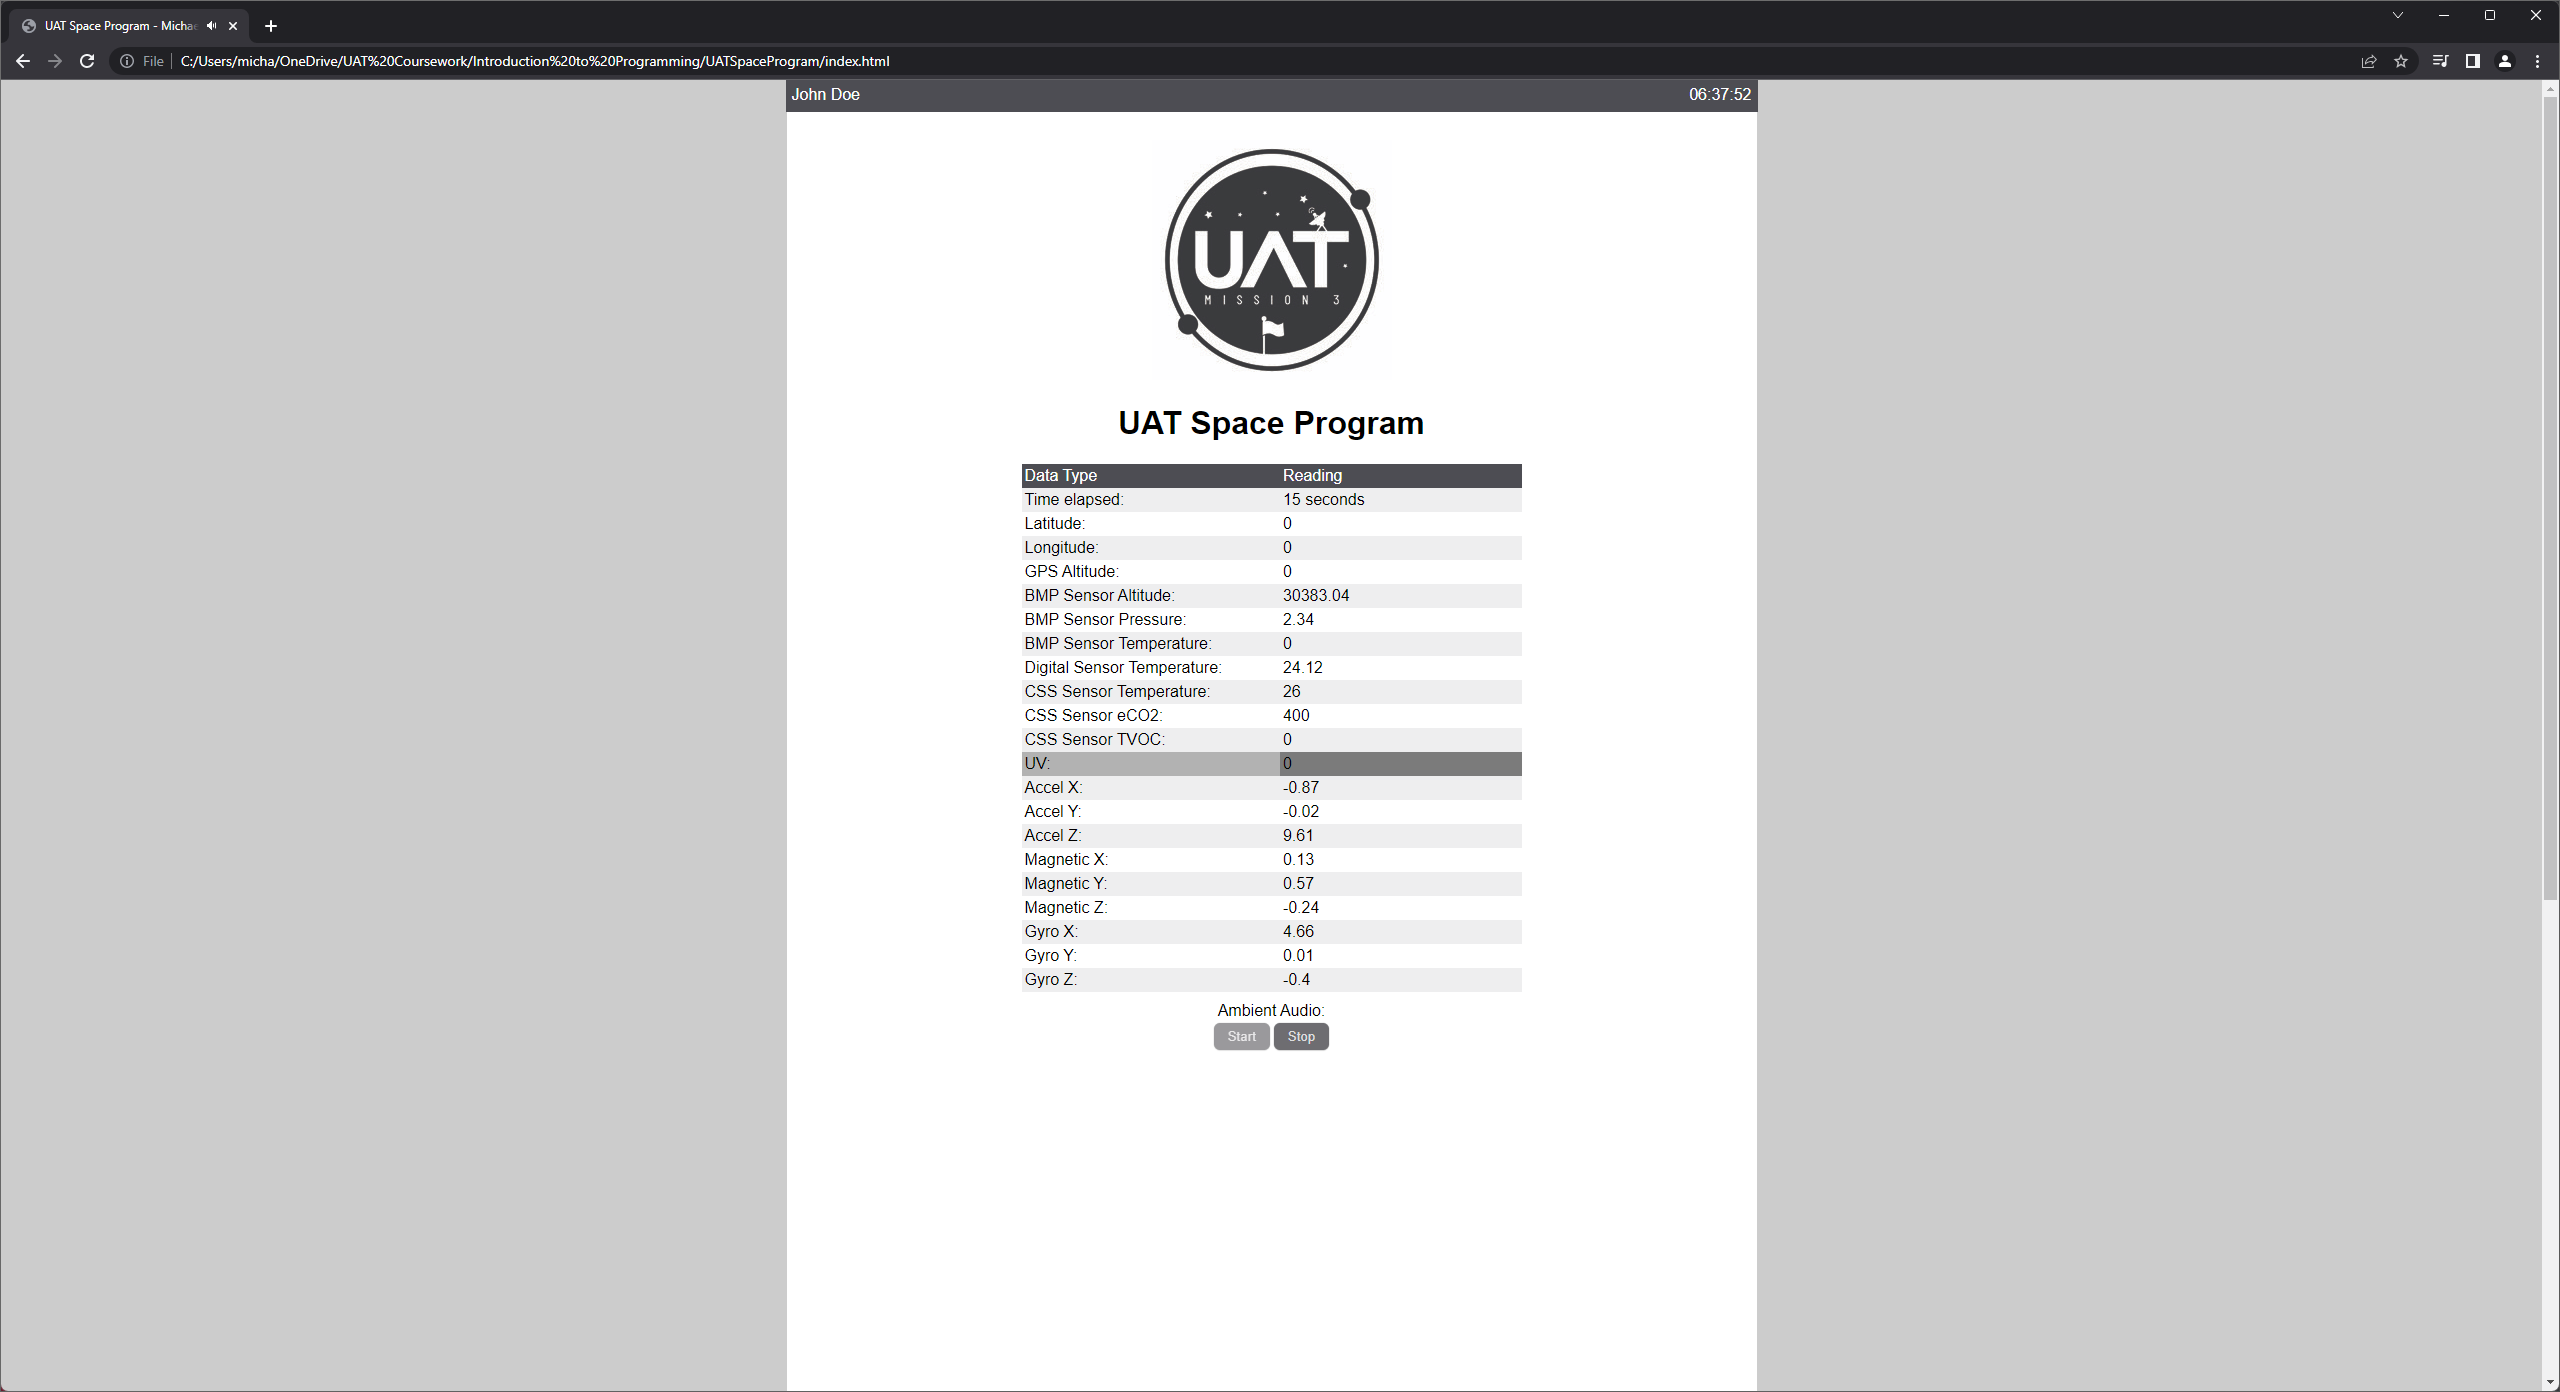
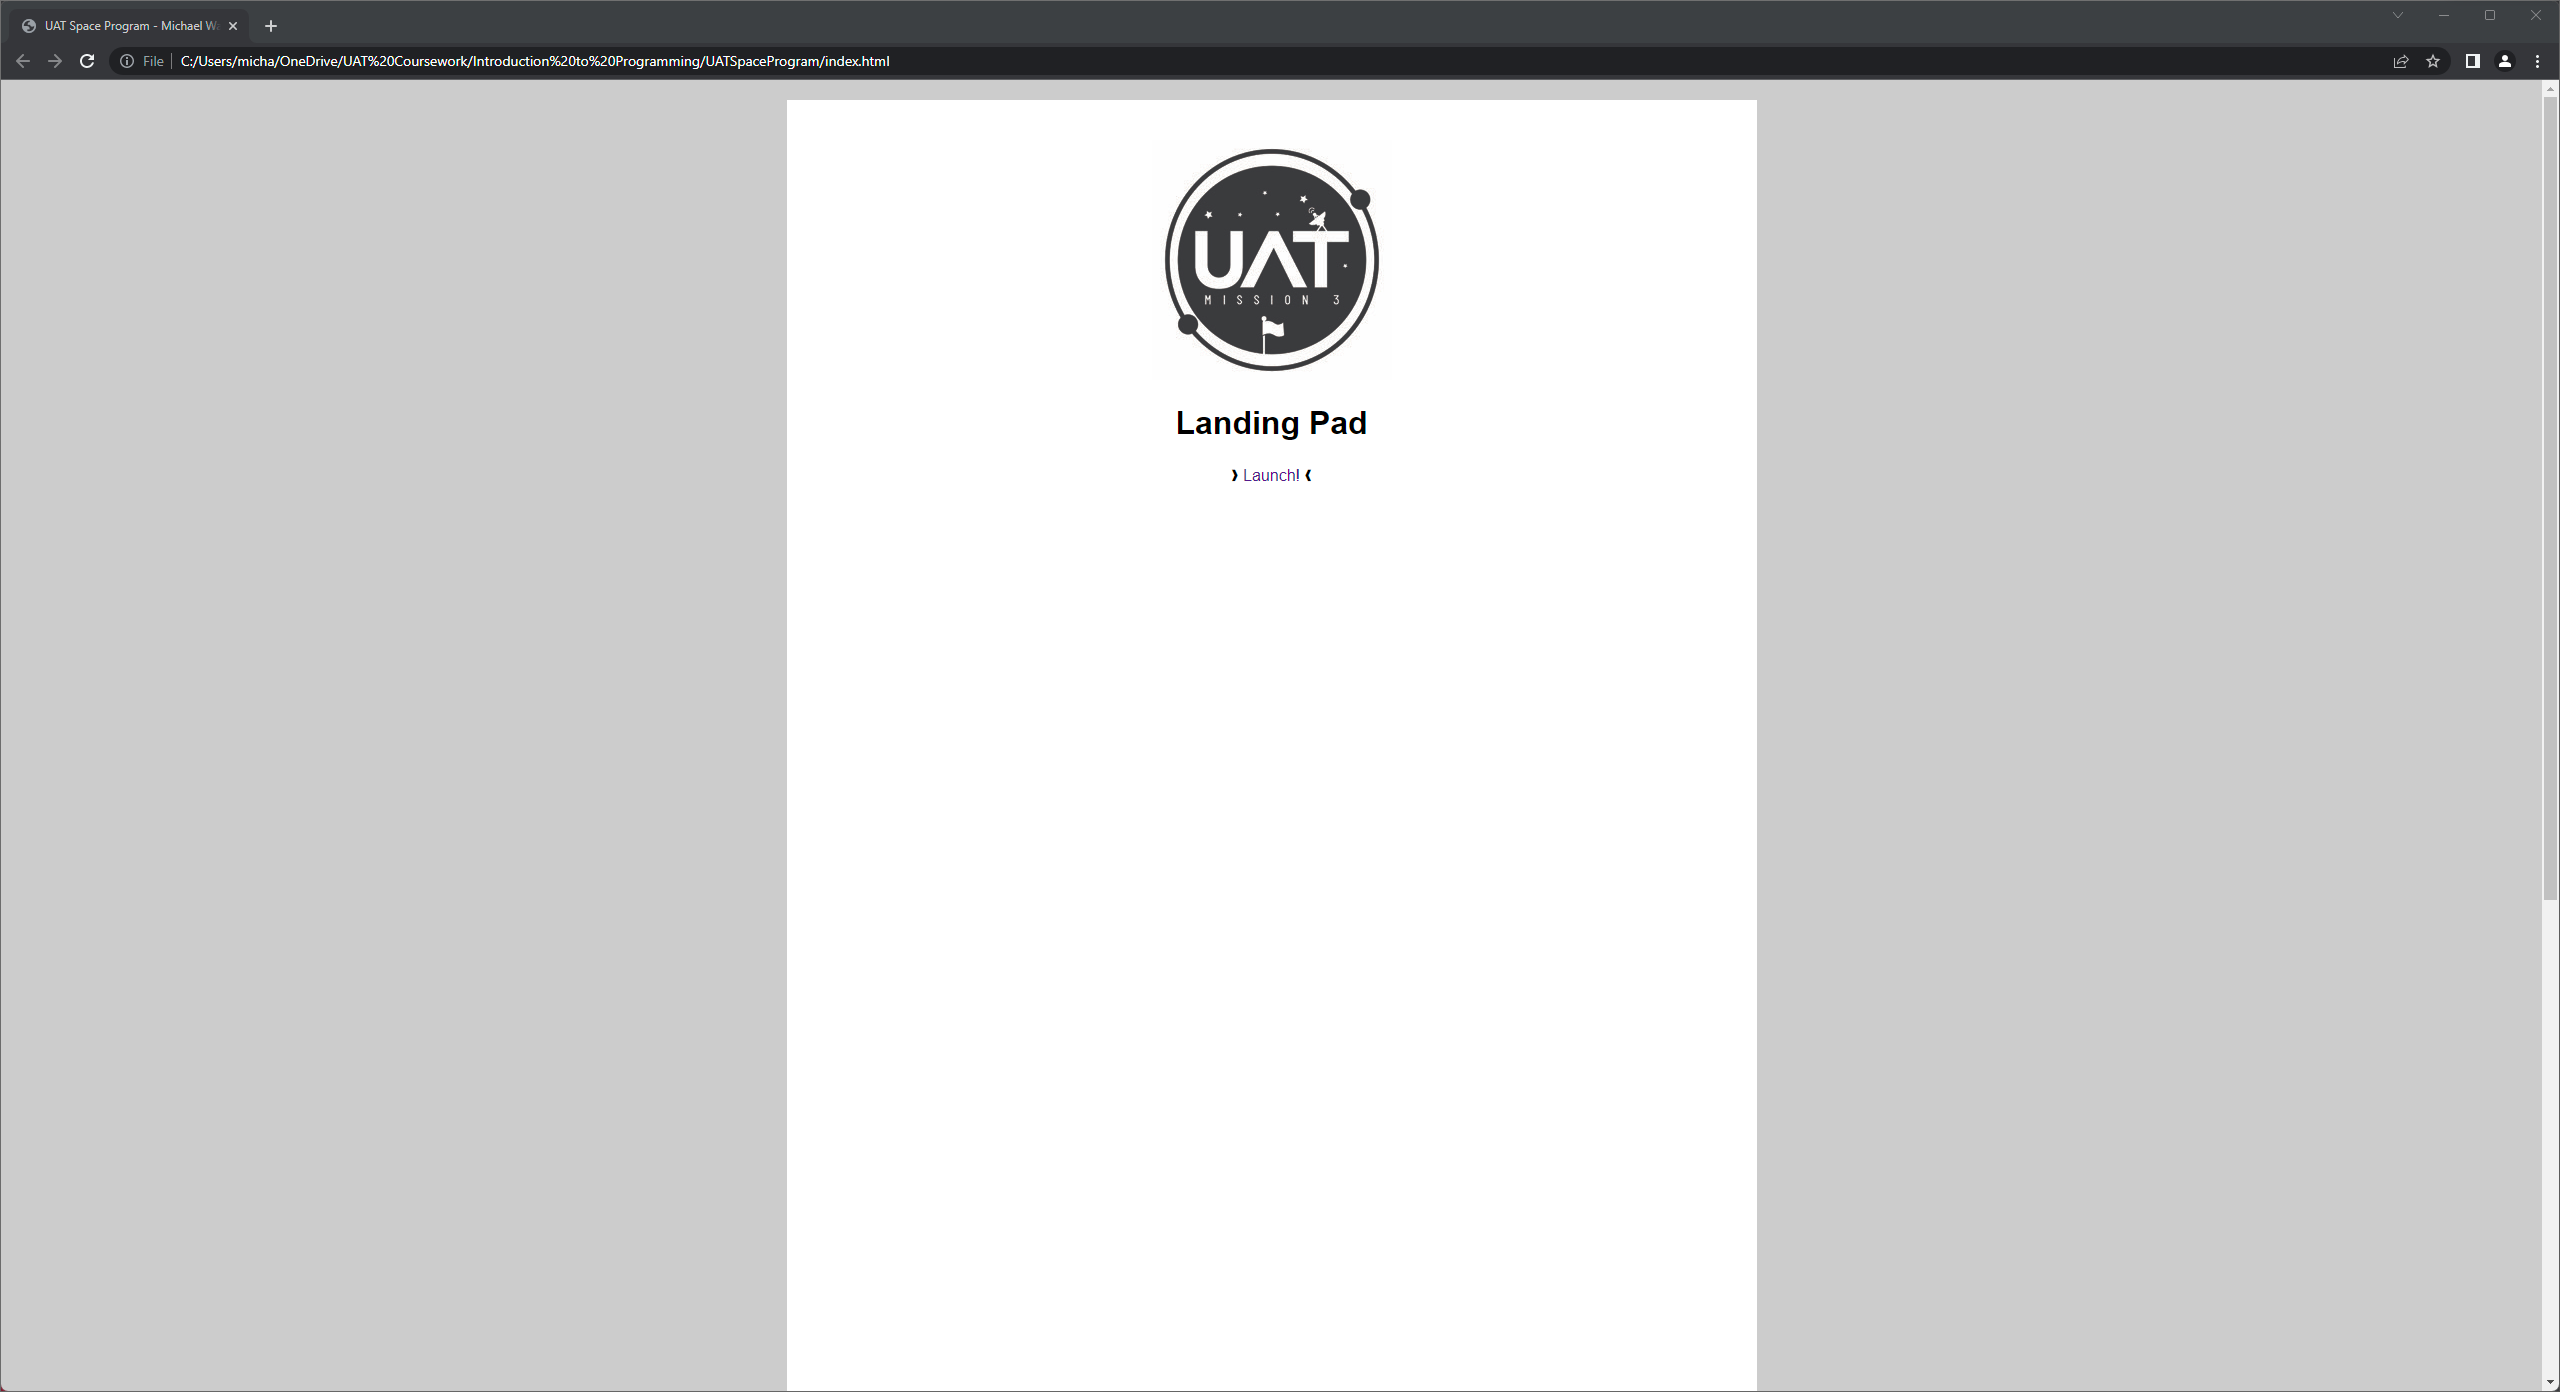
Final Assignment

diff --git a/pad.html b/pad.html
@@ -1,0 +1,137 @@
+<!DOCTYPE html>
+
+<!-- 
+    Michael Walker
+    Final Project: Website with Navigation and Mock Data
+-->
+
+<HTML>
+    <HEAD>
+        <meta charset="UTF-8">
+        <meta name="viewport" content="width=device-width, initial-scale=1.0">
+        <meta http-equiv="X-UA-Compatible" content="ie=edge">
+
+        <!-- Sets the title at top of window -->
+        <title>UAT Space Program - Michael Walker</title>
+        <link rel="stylesheet" href="style.css" type="text/css"/>
+    </HEAD>
+    <BODY>
+        <!-- Header container displays employee name and current time -->
+        <div class="header-cont">
+            <div class="header">
+                <div id="name" class="column"></div><div id="localTime" class="column"></div>
+            </div>
+        </div>
+
+        <div class="content">
+            <!-- Image source is in same folder as index.html -->
+            <img src="UATspaceLogo-2.jpg" alt="UAT Space Mission logo">
+
+            <!-- h1 tag for title of program -->
+            <h1>UAT Space Program</h1>
+
+            <table>
+                <tr class="headline">
+                    <td class="tableHeadline">Data Type</td>
+                    <td class="tableHeadline">Reading</td>
+                </tr>
+                <tr class="rowHighlight">
+                    <td>Time elapsed:</td>
+                    <td class="data">15 seconds</td>
+                </tr>
+                <tr class="rowLowlight">
+                    <td>Latitude:</td>
+                    <td class="data">0</td>
+                </tr>
+                <tr class="rowHighlight">
+                    <td>Longitude:</td>
+                    <td class="data">0</td>
+                </tr>
+                <tr class="rowLowlight">
+                    <td>GPS Altitude:</td>
+                    <td class="data">0</td>
+                </tr>
+                <tr class="rowHighlight">
+                    <td>BMP Sensor Altitude:</td>
+                    <td class="data">30383.04</td>
+                </tr>
+                <tr class="rowLowlight">
+                    <td>BMP Sensor Pressure:</td>
+                    <td class="data">2.34</td>
+                </tr>
+                <tr class="rowHighlight">
+                    <td>BMP Sensor Temperature:</td>
+                    <td class="data">0</td>
+                </tr>
+                <tr class="rowLowlight">
+                    <td>Digital Sensor Temperature:</td>
+                    <td class="data">24.12</td>
+                </tr>
+                <tr class="rowHighlight">
+                    <td>CSS Sensor Temperature:</td>
+                    <td class="data">26</td>
+                </tr>
+                <tr class="rowLowlight">
+                    <td>CSS Sensor eCO2:</td>
+                    <td class="data">400</td>
+                </tr>
+                <tr class="rowHighlight">
+                    <td>CSS Sensor TVOC:</td>
+                    <td class="data">0</td>
+                </tr>
+                <tr class="rowLowlight">
+                    <td>UV:</td>
+                    <td class="data">0</td>
+                </tr>
+                <tr class="rowHighlight">
+                    <td>Accel X:</td>
+                    <td class="data">-0.87</td>
+                </tr>
+                <tr class="rowLowlight">
+                    <td>Accel Y:</td>
+                    <td class="data">-0.02</td>
+                </tr>
+                <tr class="rowHighlight">
+                    <td>Accel Z:</td>
+                    <td class="data">9.61</td>
+                </tr>
+                <tr class="rowLowlight">
+                    <td>Magnetic X:</td>
+                    <td class="data">0.13</td>
+                </tr>
+                <tr class="rowHighlight">
+                    <td>Magnetic Y:</td>
+                    <td class="data">0.57</td>
+                </tr>
+                <tr class="rowLowlight">
+                    <td>Magnetic Z:</td>
+                    <td class="data">-0.24</td>
+                </tr>
+                <tr class="rowHighlight">
+                    <td>Gyro X:</td>
+                    <td class="data">4.66</td>
+                </tr>
+                <tr class="rowLowlight">
+                    <td>Gyro Y:</td>
+                    <td class="data">0.01</td>
+                </tr>
+                <tr class="rowHighlight">
+                    <td>Gyro Z:</td>
+                    <td class="data">-0.4</td>
+                </tr>
+            </table>
+
+            <!-- Background noise buttons -->
+            <div id="audio">Ambient Audio:</div>
+            <button type="button" id="start" class="button-12">Start</button><button type="button" id="stop" class="button-12">Stop</button>
+
+            <h1 id="DisplayCountdown"></h1>
+            <!-- Link the external JavaScript file code.js -->
+            <script type="text/javascript" src="code.js"></script>
+
+            <div class="navigation">
+                &#10097; <a href="index.html">Launch pad!</a> &#10096;
+            </div>
+        </div>
+    </BODY>
+ </HTML>

diff --git a/index.html b/index.html
@@ -2,7 +2,7 @@
 
 <!-- 
     Michael Walker
-    Assignment: Event Driven Programming
+    Final Project: Website with Navigation and Mock Data
 -->
 
 <HTML>
@@ -16,118 +16,16 @@
         <link rel="stylesheet" href="style.css" type="text/css"/>
     </HEAD>
     <BODY>
-        <!-- Header container displays employee name and current time -->
-        <div class="header-cont">
-            <div class="header">
-                <div id="name" class="column"></div><div id="localTime" class="column"></div>
-            </div>
-        </div>
-
         <div class="content">
             <!-- Image source is in same folder as index.html -->
             <img src="UATspaceLogo-2.jpg" alt="UAT Space Mission logo">
 
             <!-- h1 tag for title of program -->
-            <h1>UAT Space Program</h1>
+            <h1>Landing Pad</h1>
 
-            <table>
-                <tr class="headline">
-                    <td class="tableHeadline">Data Type</td>
-                    <td class="tableHeadline">Reading</td>
-                </tr>
-                <tr class="rowHighlight">
-                    <td>Time elapsed:</td>
-                    <td class="data">15 seconds</td>
-                </tr>
-                <tr class="rowLowlight">
-                    <td>Latitude:</td>
-                    <td class="data">0</td>
-                </tr>
-                <tr class="rowHighlight">
-                    <td>Longitude:</td>
-                    <td class="data">0</td>
-                </tr>
-                <tr class="rowLowlight">
-                    <td>GPS Altitude:</td>
-                    <td class="data">0</td>
-                </tr>
-                <tr class="rowHighlight">
-                    <td>BMP Sensor Altitude:</td>
-                    <td class="data">30383.04</td>
-                </tr>
-                <tr class="rowLowlight">
-                    <td>BMP Sensor Pressure:</td>
-                    <td class="data">2.34</td>
-                </tr>
-                <tr class="rowHighlight">
-                    <td>BMP Sensor Temperature:</td>
-                    <td class="data">0</td>
-                </tr>
-                <tr class="rowLowlight">
-                    <td>Digital Sensor Temperature:</td>
-                    <td class="data">24.12</td>
-                </tr>
-                <tr class="rowHighlight">
-                    <td>CSS Sensor Temperature:</td>
-                    <td class="data">26</td>
-                </tr>
-                <tr class="rowLowlight">
-                    <td>CSS Sensor eCO2:</td>
-                    <td class="data">400</td>
-                </tr>
-                <tr class="rowHighlight">
-                    <td>CSS Sensor TVOC:</td>
-                    <td class="data">0</td>
-                </tr>
-                <tr class="rowLowlight">
-                    <td>UV:</td>
-                    <td class="data">0</td>
-                </tr>
-                <tr class="rowHighlight">
-                    <td>Accel X:</td>
-                    <td class="data">-0.87</td>
-                </tr>
-                <tr class="rowLowlight">
-                    <td>Accel Y:</td>
-                    <td class="data">-0.02</td>
-                </tr>
-                <tr class="rowHighlight">
-                    <td>Accel Z:</td>
-                    <td class="data">9.61</td>
-                </tr>
-                <tr class="rowLowlight">
-                    <td>Magnetic X:</td>
-                    <td class="data">0.13</td>
-                </tr>
-                <tr class="rowHighlight">
-                    <td>Magnetic Y:</td>
-                    <td class="data">0.57</td>
-                </tr>
-                <tr class="rowLowlight">
-                    <td>Magnetic Z:</td>
-                    <td class="data">-0.24</td>
-                </tr>
-                <tr class="rowHighlight">
-                    <td>Gyro X:</td>
-                    <td class="data">4.66</td>
-                </tr>
-                <tr class="rowLowlight">
-                    <td>Gyro Y:</td>
-                    <td class="data">0.01</td>
-                </tr>
-                <tr class="rowHighlight">
-                    <td>Gyro Z:</td>
-                    <td class="data">-0.4</td>
-                </tr>
-            </table>
-
-            <!-- Background noise buttons -->
-            <div id="audio">Ambient Audio:</div>
-            <button type="button" id="start" class="button-12">Start</button><button type="button" id="stop" class="button-12">Stop</button>
-
-            <h1 id="DisplayCountdown"></h1>
-            <!-- Link the external JavaScript file code.js -->
-            <script type="text/javascript" src="code.js"></script>
+            <div class="navigation">
+                &#10097; <a href="pad.html">Launch!</a> &#10096;
+            </div>
         </div>
     </BODY>
- </HTML>
+</HTML>

diff --git a/style.css b/style.css
@@ -105,3 +105,16 @@ table, th, td {
     padding-top: 10px;
     padding-bottom: 1px;
 }
+
+a:link {
+    text-decoration: none;
+}
+
+a:hover {
+    text-decoration: underline;
+    color: green;
+}
+
+a:active {
+    color: red;
+}
